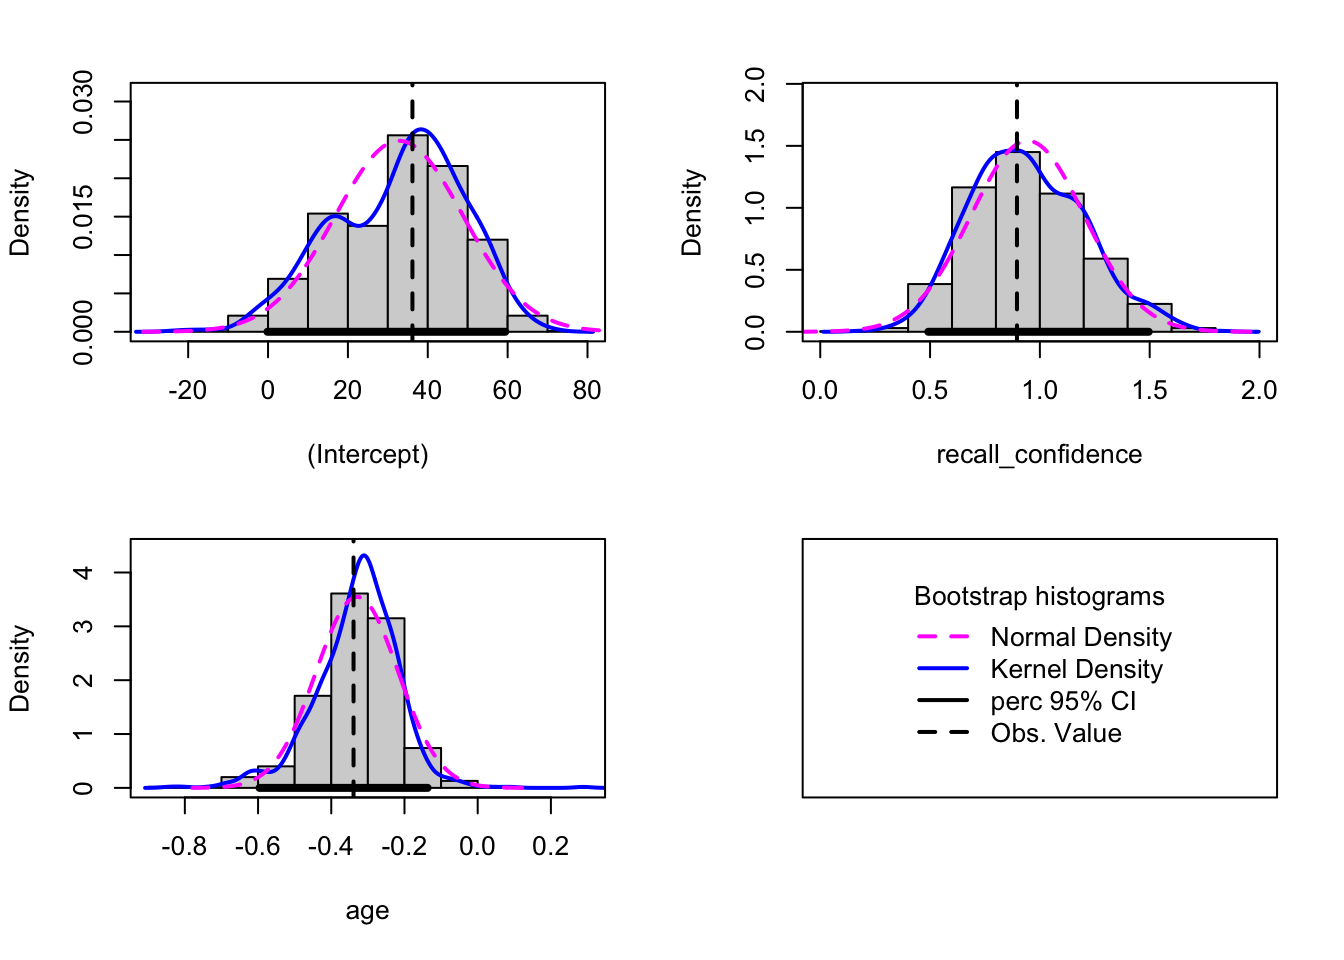
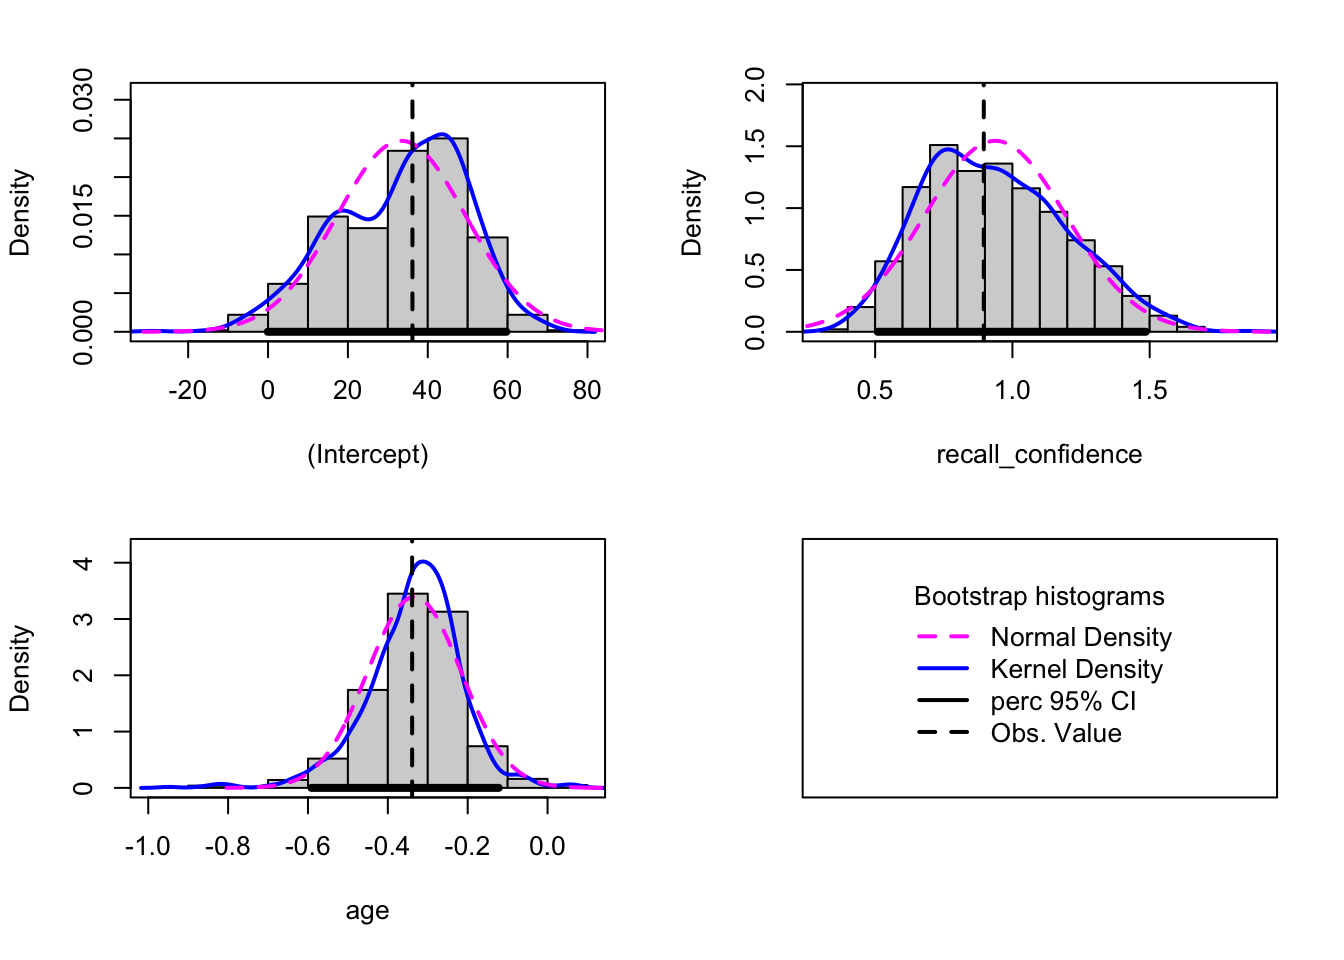
update boot flashcard

diff --git a/docs/2627/flashcards/block2/bootstrapping.html b/docs/2627/flashcards/block2/bootstrapping.html
@@ -378,6 +378,7 @@ window.Quarto = {
    
   <ul>
   <li><a href="#overview" id="toc-overview" class="nav-link active" data-scroll-target="#overview">Overview</a></li>
+  <li><a href="#conceptual-background" id="toc-conceptual-background" class="nav-link" data-scroll-target="#conceptual-background">Conceptual background</a></li>
   <li><a href="#terminology" id="toc-terminology" class="nav-link" data-scroll-target="#terminology">Terminology</a></li>
   <li><a href="#in-r" id="toc-in-r" class="nav-link" data-scroll-target="#in-r">In R</a></li>
   </ul>
@@ -405,11 +406,6 @@ window.Quarto = {
 </header>
 
 
-<p>The bootstrap method is an alternative non-parametric method of constructing a standard error. Instead of having to rely on calculating the standard error with a formula and potentially applying fancy mathematical corrections, bootstrapping involves mimicking the idea of “repeatedly sampling from the population”. It does so by repeatedly <strong>re</strong>sampling with <strong>replacement</strong> from our original sample.</p>
-<p>What this means is that we don’t have to rely on any assumptions about our model residuals, because we actually generate an actual distribution that we can take as an approximation of our sampling distribution, meaning that we can actually look at where 95% of the distribution falls, without having to rely on any summing of squared deviations.</p>
-<p><strong>Note, the bootstrap may provide us with an alternative way of conducting inference, but our model may still be mis-specified. It is also very important to remember that bootstrapping is entirely reliant on utilising our original sample to pretend that it is a population (and mimic sampling from that population). If our original sample is not representative of the population that we’re interested in, bootstrapping doesn’t help us at all.</strong></p>
-<p>The <em>bootstrap</em> is a general approach to assessing whether the sample results are statistically significant or not, and allows us to draw inferences to the population from a regression model. This method is assumption-free and does not rely on conditions such as normality of the residuals.</p>
-<p>It is based on sampling repeatedly with replacement (to avoid always getting the original sample exactly) from the data at hand, and then computing the regression coefficients from each re-sample. We will equivalently use the word “bootstrap sample” or “resample” (for <strong>sample</strong> with <strong>re</strong>placement).</p>
 <section id="overview" class="level2">
 <h2 class="anchored" data-anchor-id="overview">Overview</h2>
 <p>The basic principle is:</p>
@@ -430,11 +426,19 @@ window.Quarto = {
 </div>
 </div>
 </section>
+<section id="conceptual-background" class="level2">
+<h2 class="anchored" data-anchor-id="conceptual-background">Conceptual background</h2>
+<p>The bootstrap method is an alternative non-parametric method of constructing a standard error. Instead of having to rely on calculating the standard error with a formula and potentially applying fancy mathematical corrections, bootstrapping involves mimicking the idea of “repeatedly sampling from the population”. It does so by repeatedly <strong>re</strong>sampling with <strong>replacement</strong> from our original sample.</p>
+<p>What this means is that we don’t have to rely on any assumptions about our model residuals, because we actually generate an actual distribution that we can take as an approximation of our sampling distribution, meaning that we can actually look at where 95% of the distribution falls, without having to rely on any summing of squared deviations.</p>
+<p><strong>Note, the bootstrap may provide us with an alternative way of conducting inference, but our model may still be mis-specified. It is also very important to remember that bootstrapping is entirely reliant on utilising our original sample to pretend that it is a population (and mimic sampling from that population). If our original sample is not representative of the population that we’re interested in, bootstrapping doesn’t help us at all.</strong></p>
+<p>The <em>bootstrap</em> is a general approach to assessing whether the sample results are statistically significant or not, and allows us to draw inferences to the population from a regression model. This method is assumption-free and does not rely on conditions such as normality of the residuals.</p>
+<p>It is based on sampling repeatedly with replacement (to avoid always getting the original sample exactly) from the data at hand, and then computing the regression coefficients from each re-sample. We will equivalently use the word “bootstrap sample” or “resample” (for <strong>sample</strong> with <strong>re</strong>placement).</p>
+</section>
 <section id="terminology" class="level2">
 <h2 class="anchored" data-anchor-id="terminology">Terminology</h2>
 <ul>
 <li>A <em>parameter</em> is a numerical summary for the population, e.g.&nbsp;the population slope <span class="math inline">\(\beta_1\)</span>.</li>
-<li>A <em>statistic</em> is a numerical summary calculated from the sample data, e.g.&nbsp;the estimated slope in the sample <span class="math inline">\(\widehat \beta_1\)</span>. We use the sample statistic as a best guess, or estimate, for the unknown population parameter.</li>
+<li>A <em>statistic</em> is a numerical summary calculated from the sample data, e.g.&nbsp;the estimated slope in the sample <span class="math inline">\(\beta_1\)</span>. We use the sample statistic as a best guess, or estimate, for the unknown population parameter.</li>
 <li>A <em>bootstrap sample</em> is chosen with replacement from an existing sample, using the same sample size.</li>
 <li>A <em>bootstrap statistic</em> is a statistic computed for each bootstrap sample.</li>
 <li>A <em>sampling distribution</em> or <em>bootstrap distribution</em> collects bootstrap statistics for many bootstrap samples.</li>
@@ -448,16 +452,13 @@ window.Quarto = {
 <li><p>2: Use the <code>Boot()</code> function (do not forget the uppercase B!) which takes as arguments:</p>
 <ul>
 <li>the fitted model</li>
-<li><code>f</code>, saying which bootstrap statistics to compute on each bootstrap sample. By default <code>f = coef</code>, returning the regression coefficients.</li>
-<li><code>R</code>, saying how many bootstrap samples to compute. By default <code>R = 999</code> but this could be any number. To experiment we recommend 1000, when you want to produce results for journals, it is typical to go with 10,000 or more.</li>
-<li><code>ncores</code>, saying if to perform the calculations in parallel (and more efficiently). However, this will depend on your PC, and you need to find how many cores you have by running <code>parallel::detectCores()</code> on your PC. By default the function uses <code>ncores = 1</code>.</li>
+<li><code>R</code>, saying how many bootstrap samples to compute. By default <code>R = 999</code> but this could be any number. To experiment we recommend 1000; when you want to produce results for reports or dissertations or journal papers, it is typical to go with 10,000 or more.</li>
 </ul></li>
-<li><p>3: Run the code. However, please remember that the <code>Boot()</code> function does <strong>not</strong> want a model which was fitted using data with <code>NAs</code>. To remove, for example, you could use <code>na.omit</code>.</p></li>
+<li><p>3: Run the code. Note that if you had any <code>NA</code>s in your data, the <code>Boot()</code> function will not be happy. To remove NAs from your data, you could for example use <code>na.omit</code>.</p></li>
 <li><p>4: Look at the <code>summary()</code> of the bootstrap results. When doing so the output will show, for each regression coefficient, the value in the original sample in the column <code>original</code>, and in the <code>bootSE</code> column, the estimate of the variability of the coefficient from bootstrap sample to bootstrap sample. The <code>bootSE</code> provides us the bootstrap standard error, or bootstrap SE in short. We can use this to answer the key question of how accurate our estimate is.</p></li>
-<li><p>5: Compute confidence intervals via the <code>Confint()</code> function. Use your preferred confidence level (usually, and by default, 95%) by specifying <code>level =</code>. If you select 95% confidence intervals, by also specifying the <code>type = "perc"</code> argument, <code>R</code> will return the values that comprise 95% of all values in between them, i.e.&nbsp;the value with 2.5% of observations below it and the value with 2.5% of observations above it and 97.5% of observations below it.</p></li>
+<li><p>5: Compute confidence intervals via the <code>confint()</code> function. If you use 95% confidence intervals, by also specifying the <code>type = "perc"</code> argument, <code>R</code> will return the values that comprise 95% of all values in between them, i.e.&nbsp;the value with 2.5% of observations below it and the value with 2.5% of observations above it and 97.5% of observations below it. <strong>If the 95% CI contains 0, you fail to reject H0; if the 95% CI does <em>not</em> contain 0, then you can reject H0.</strong></p></li>
 <li><p>6: Provide interpretation in the context of your research question and report results in APA format. <em>(Note: the actual estimates are those from our original model, it is just the bounds of the interval that bootstrapping is providing us with)</em>.</p></li>
 </ul>
-<p><strong>In R</strong></p>
 <div class="cell" data-layout-align="center">
 <div class="code-copy-outer-scaffold"><div class="sourceCode cell-code" id="cb1"><pre class="sourceCode r code-with-copy"><code class="sourceCode r"><span id="cb1-1"><a href="#cb1-1" aria-hidden="true" tabindex="-1"></a>recalldata <span class="ot">&lt;-</span> <span class="fu">read_csv</span>(<span class="st">'https://uoepsy.github.io/data/recalldata.csv'</span>)</span>
 <span id="cb1-2"><a href="#cb1-2" aria-hidden="true" tabindex="-1"></a></span>
@@ -476,48 +477,23 @@ window.Quarto = {
 <pre><code>
 Number of bootstrap replications R = 1000 
                   original bootBias bootSE bootMed
-(Intercept)         36.160 -3.32097 16.035  34.970
-recall_confidence    0.896  0.04828  0.259   0.928
-age                 -0.339  0.00979  0.112  -0.317</code></pre>
+(Intercept)         36.160 -3.22397 16.884  35.462
+recall_confidence    0.896  0.05022  0.266   0.915
+age                 -0.339  0.00473  0.120  -0.326</code></pre>
 </div>
-<div class="code-copy-outer-scaffold"><div class="sourceCode cell-code" id="cb3"><pre class="sourceCode r code-with-copy"><code class="sourceCode r"><span id="cb3-1"><a href="#cb3-1" aria-hidden="true" tabindex="-1"></a><span class="co">#step 5: confidence intervals</span></span>
-<span id="cb3-2"><a href="#cb3-2" aria-hidden="true" tabindex="-1"></a><span class="fu">Confint</span>(bootmymodel, <span class="at">level =</span> <span class="fl">0.95</span>, <span class="at">type =</span> <span class="st">"perc"</span>)</span></code></pre></div><button title="Copy to Clipboard" class="code-copy-button"><i class="bi"></i></button></div>
+<div class="code-copy-outer-scaffold"><div class="sourceCode cell-code" id="cb3"><pre class="sourceCode r code-with-copy"><code class="sourceCode r"><span id="cb3-1"><a href="#cb3-1" aria-hidden="true" tabindex="-1"></a><span class="co">#step 5: confidence intervals (by default 95%)</span></span>
+<span id="cb3-2"><a href="#cb3-2" aria-hidden="true" tabindex="-1"></a><span class="fu">confint</span>(bootmymodel, <span class="at">type =</span> <span class="st">"perc"</span>)</span></code></pre></div><button title="Copy to Clipboard" class="code-copy-button"><i class="bi"></i></button></div>
 <div class="cell-output cell-output-stdout">
 <pre><code>Bootstrap percent confidence intervals
 
-                  Estimate  2.5 % 97.5 %
-(Intercept)         36.160 -0.133 59.392
-recall_confidence    0.896  0.492  1.496
-age                 -0.339 -0.596 -0.137</code></pre>
+                   2.5 % 97.5 %
+(Intercept)       -1.950  60.86
+recall_confidence  0.507   1.50
+age               -0.615  -0.11</code></pre>
 </div>
 </div>
 <p><br></p>
-<div class="callout callout-style-default callout-caution callout-titled">
-<div class="callout-header d-flex align-content-center collapsed" data-bs-toggle="collapse" data-bs-target=".callout-1-contents" aria-controls="callout-1" aria-expanded="false" aria-label="Toggle callout">
-<div class="callout-icon-container">
-<i class="callout-icon"></i>
-</div>
-<div class="callout-title-container flex-fill">
-<span class="screen-reader-only">Caution</span>Visualise bootstrapped estimates
-</div>
-<div class="callout-btn-toggle d-inline-block border-0 py-1 ps-1 pe-0 float-end"><i class="callout-toggle"></i></div>
-</div>
-<div id="callout-1" class="callout-1-contents callout-collapse collapse">
-<div class="callout-body-container callout-body">
-<p>You can visualise the uncertainty in the estimates by plotting histograms using the built-in function from the <strong>car</strong> package, which simply takes the bootstrap results <code>bootmymodel</code>. The bootstrap distribution should appear to be normal, and if non-normal, results are likely untrustworthy (note the distribution can be somewhat ambiguous with a small number of resamples).</p>
-<div class="cell" data-layout-align="center">
-<div class="code-copy-outer-scaffold"><div class="sourceCode cell-code" id="cb5"><pre class="sourceCode r code-with-copy"><code class="sourceCode r"><span id="cb5-1"><a href="#cb5-1" aria-hidden="true" tabindex="-1"></a><span class="fu">hist</span>(bootmymodel, <span class="at">ci =</span> <span class="st">"perc"</span>, <span class="at">legend =</span> <span class="st">"separate"</span>)</span></code></pre></div><button title="Copy to Clipboard" class="code-copy-button"><i class="bi"></i></button></div>
-<div class="cell-output-display">
-<div class="quarto-figure quarto-figure-center">
-<figure class="figure">
-<p><img src="bootstrapping_files/figure-html/eval-1.png" class="img-fluid quarto-figure quarto-figure-center figure-img" style="width:100.0%"></p>
-</figure>
-</div>
-</div>
-</div>
-</div>
-</div>
-</div>
+<p>All of these 95% CIs do not contain zero, so for each coefficient, we can reject the H0 that the estimate is equal to zero.</p>
 
 
 </section>
